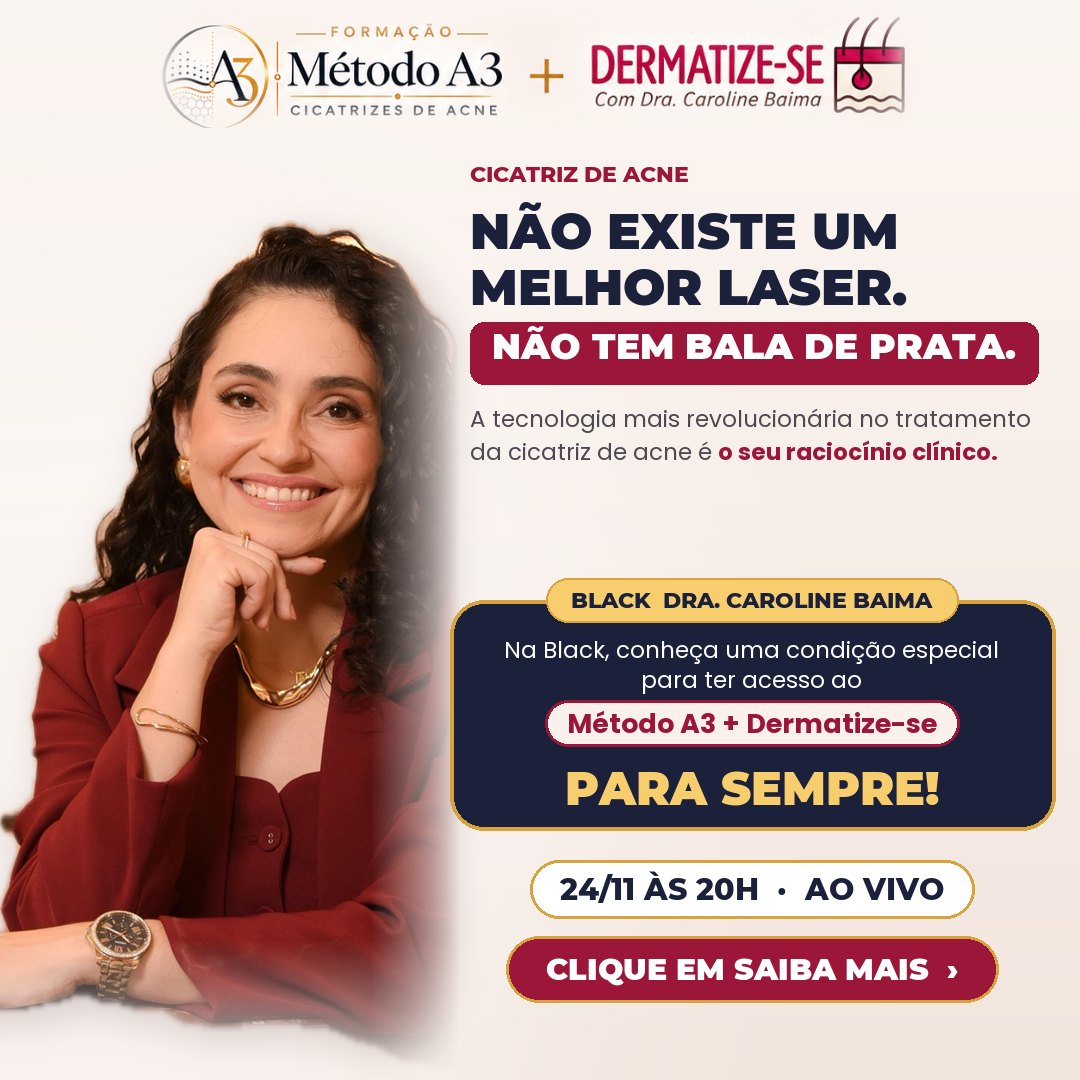
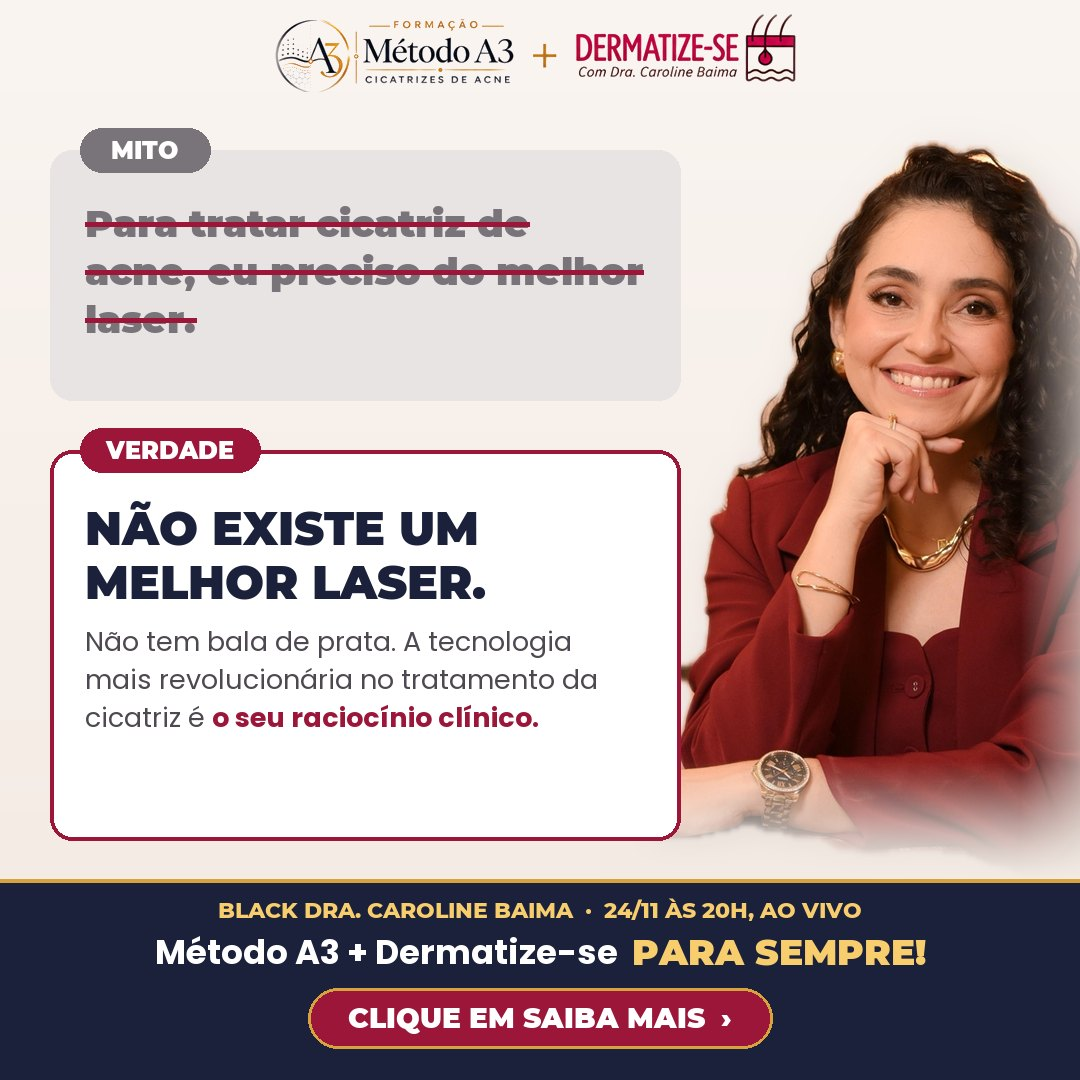
Carol: Black novos criativos v2 (layouts variados)

diff --git a/carol/black-novos-criativos/index.html b/carol/black-novos-criativos/index.html
@@ -60,7 +60,7 @@ ol.lic{padding-left:1.2em;margin:0;display:grid;gap:10px;max-width:72ch}
   <h2>O que mais está trazendo inscritos</h2>
   <ol class="lic">
     <li><b>A dor clínica do médico.</b> O vídeo 038 ("o maior desafio não é o procedimento, é a associação e a ordem") e a arte 001 ("várias sessões e o resultado não foi o esperado?") são as duas peças que mais trouxeram inscritos. As duas falam do raciocínio clínico na cicatriz de acne.</li>
-    <li><b>Arte de fundo claro.</b> Com o mesmo título, a versão clara da arte trouxe mais inscritos que a versão escura. Por isso as 10 peças novas seguem o visual claro da 001.</li>
+    <li><b>Arte de fundo claro.</b> Com o mesmo título, a versão clara da arte trouxe mais inscritos que a versão escura. Por isso as 10 peças novas são todas claras, cada uma num formato diferente: citação, mito × verdade, ficha do paciente, 3 passos, foto inteira, palavra gigante.</li>
     <li><b>O cartão da oferta.</b> "Método A3 + Dermatize-se PARA SEMPRE" mostra o que a pessoa ganha ao entrar no grupo. Ele fica em todas.</li>
     <li><b>A Dra. em foto de estúdio, com rosto inteiro e uma ideia por peça.</b> Usamos só fotos do ensaio, sem foto de paciente.</li>
   </ol>
